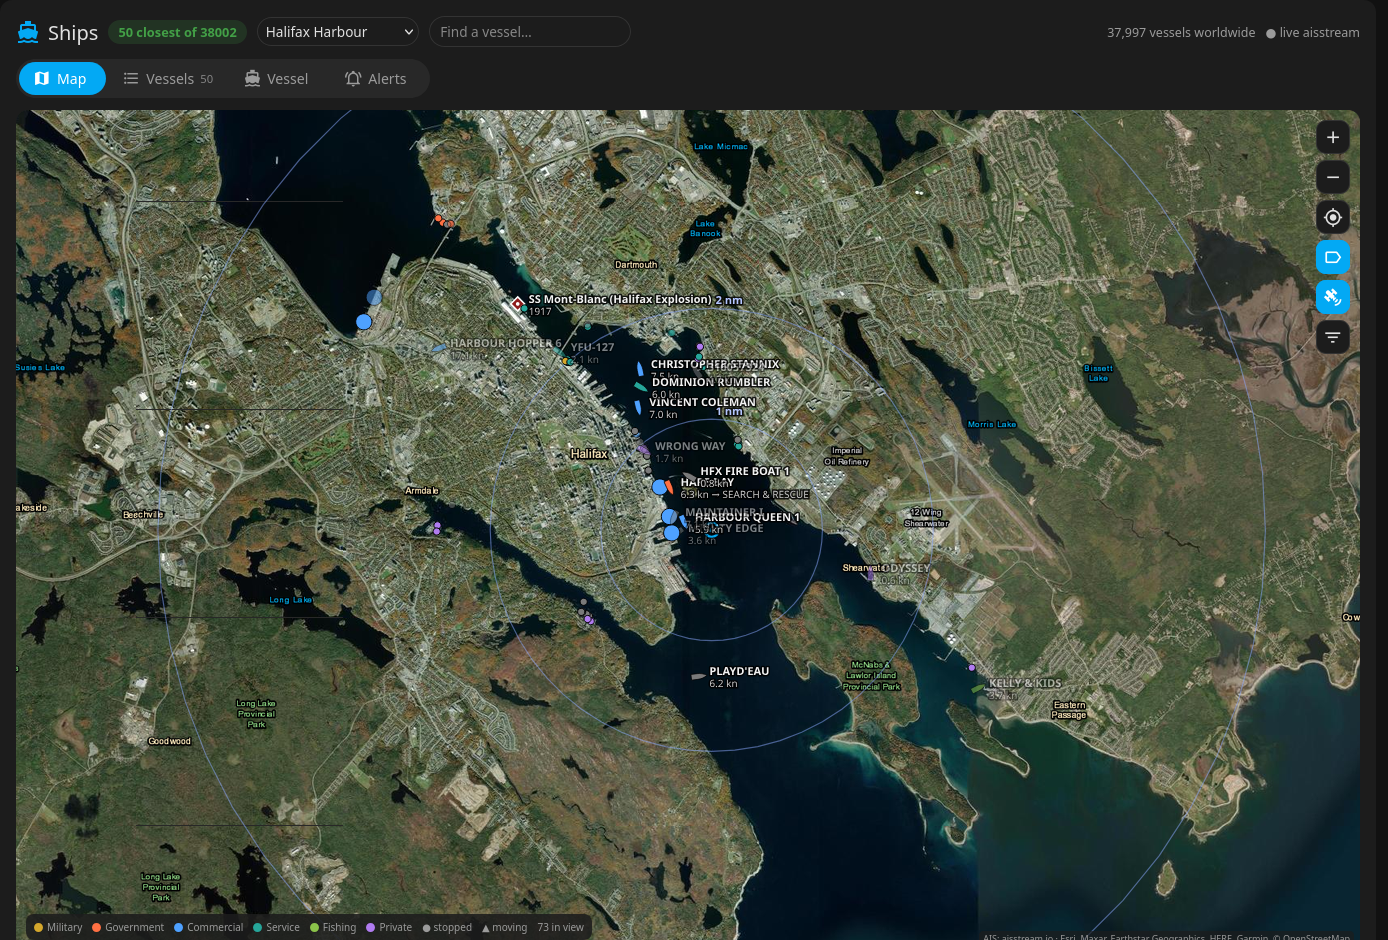
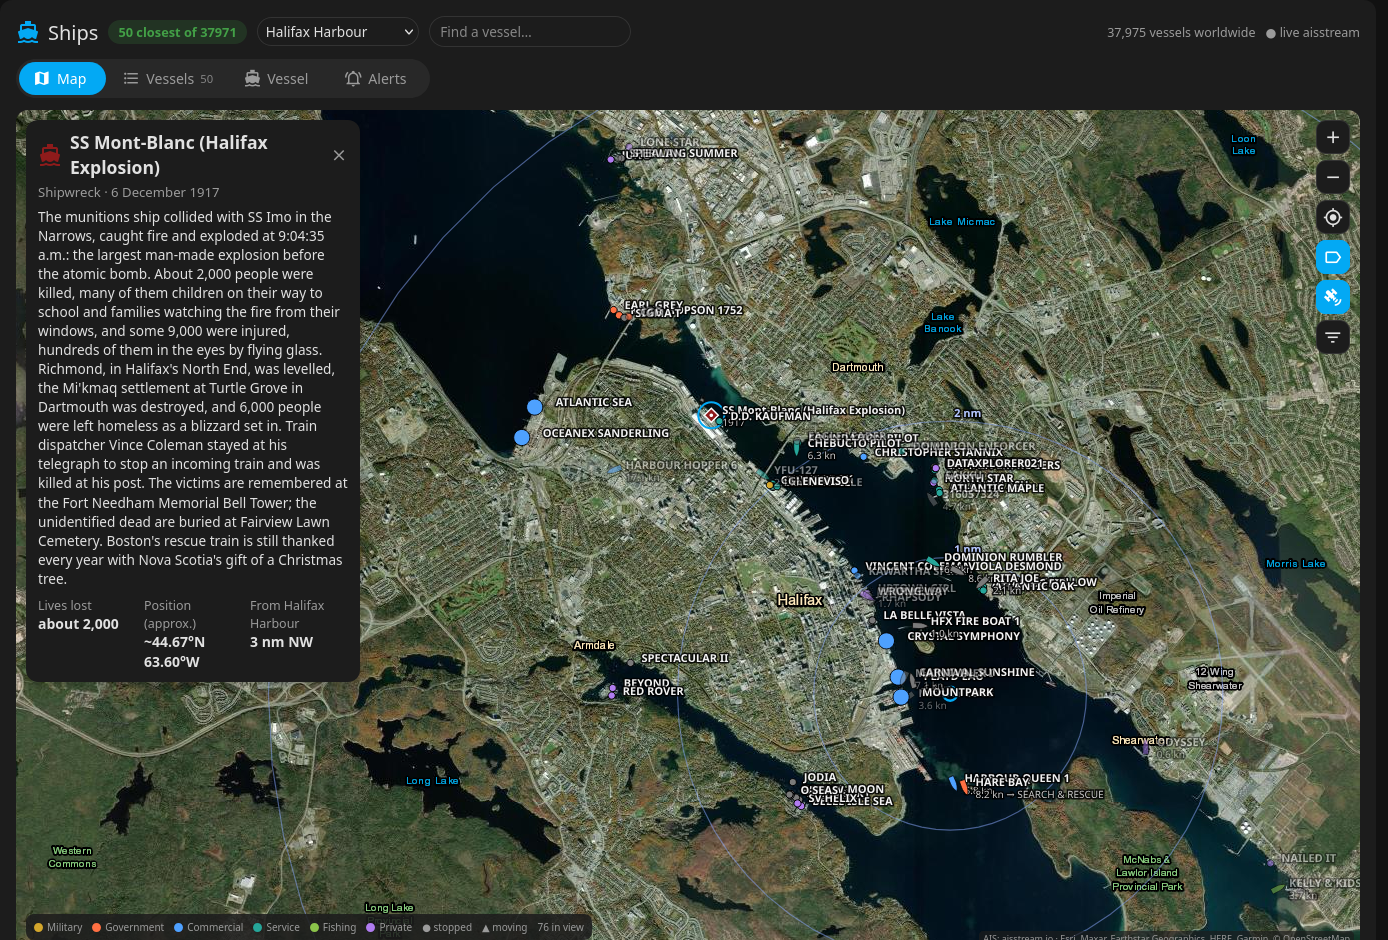
README: Halifax Explosion note screenshot

diff --git a/README.md b/README.md
@@ -10,9 +10,9 @@ The companion to [adsb-monitor](https://github.com/jchisholm59/adsb-monitor) (ai
 |---|---|
 | ![Map zoomed out over Northern Europe, every vessel in view](docs/world.png) | ![Vessel tab: a cruise ship's flag, size, draught, destination and ETA](docs/vessel.png) |
 
-| Satellite | Sable Island wrecks |
+| Satellite: the Halifax Explosion | Sable Island wrecks |
 |---|---|
-| ![Satellite view: Halifax Harbour with ferries, tugs and pilot boats on the imagery](docs/satellite.png) | ![Sable Island, the Graveyard of the Atlantic, on satellite imagery with its wrecks and the story open](docs/sable.png) |
+| ![Satellite view of Halifax Harbour with the SS Mont-Blanc (Halifax Explosion) marker and its story open](docs/satellite.png) | ![Sable Island, the Graveyard of the Atlantic, on satellite imagery with its wrecks and the story open](docs/sable.png) |
 
 ![Wrecks: major shipwrecks and naval losses across the North Atlantic, with the Titanic's story open and the filter's Wrecks section](docs/wrecks.png)
 
